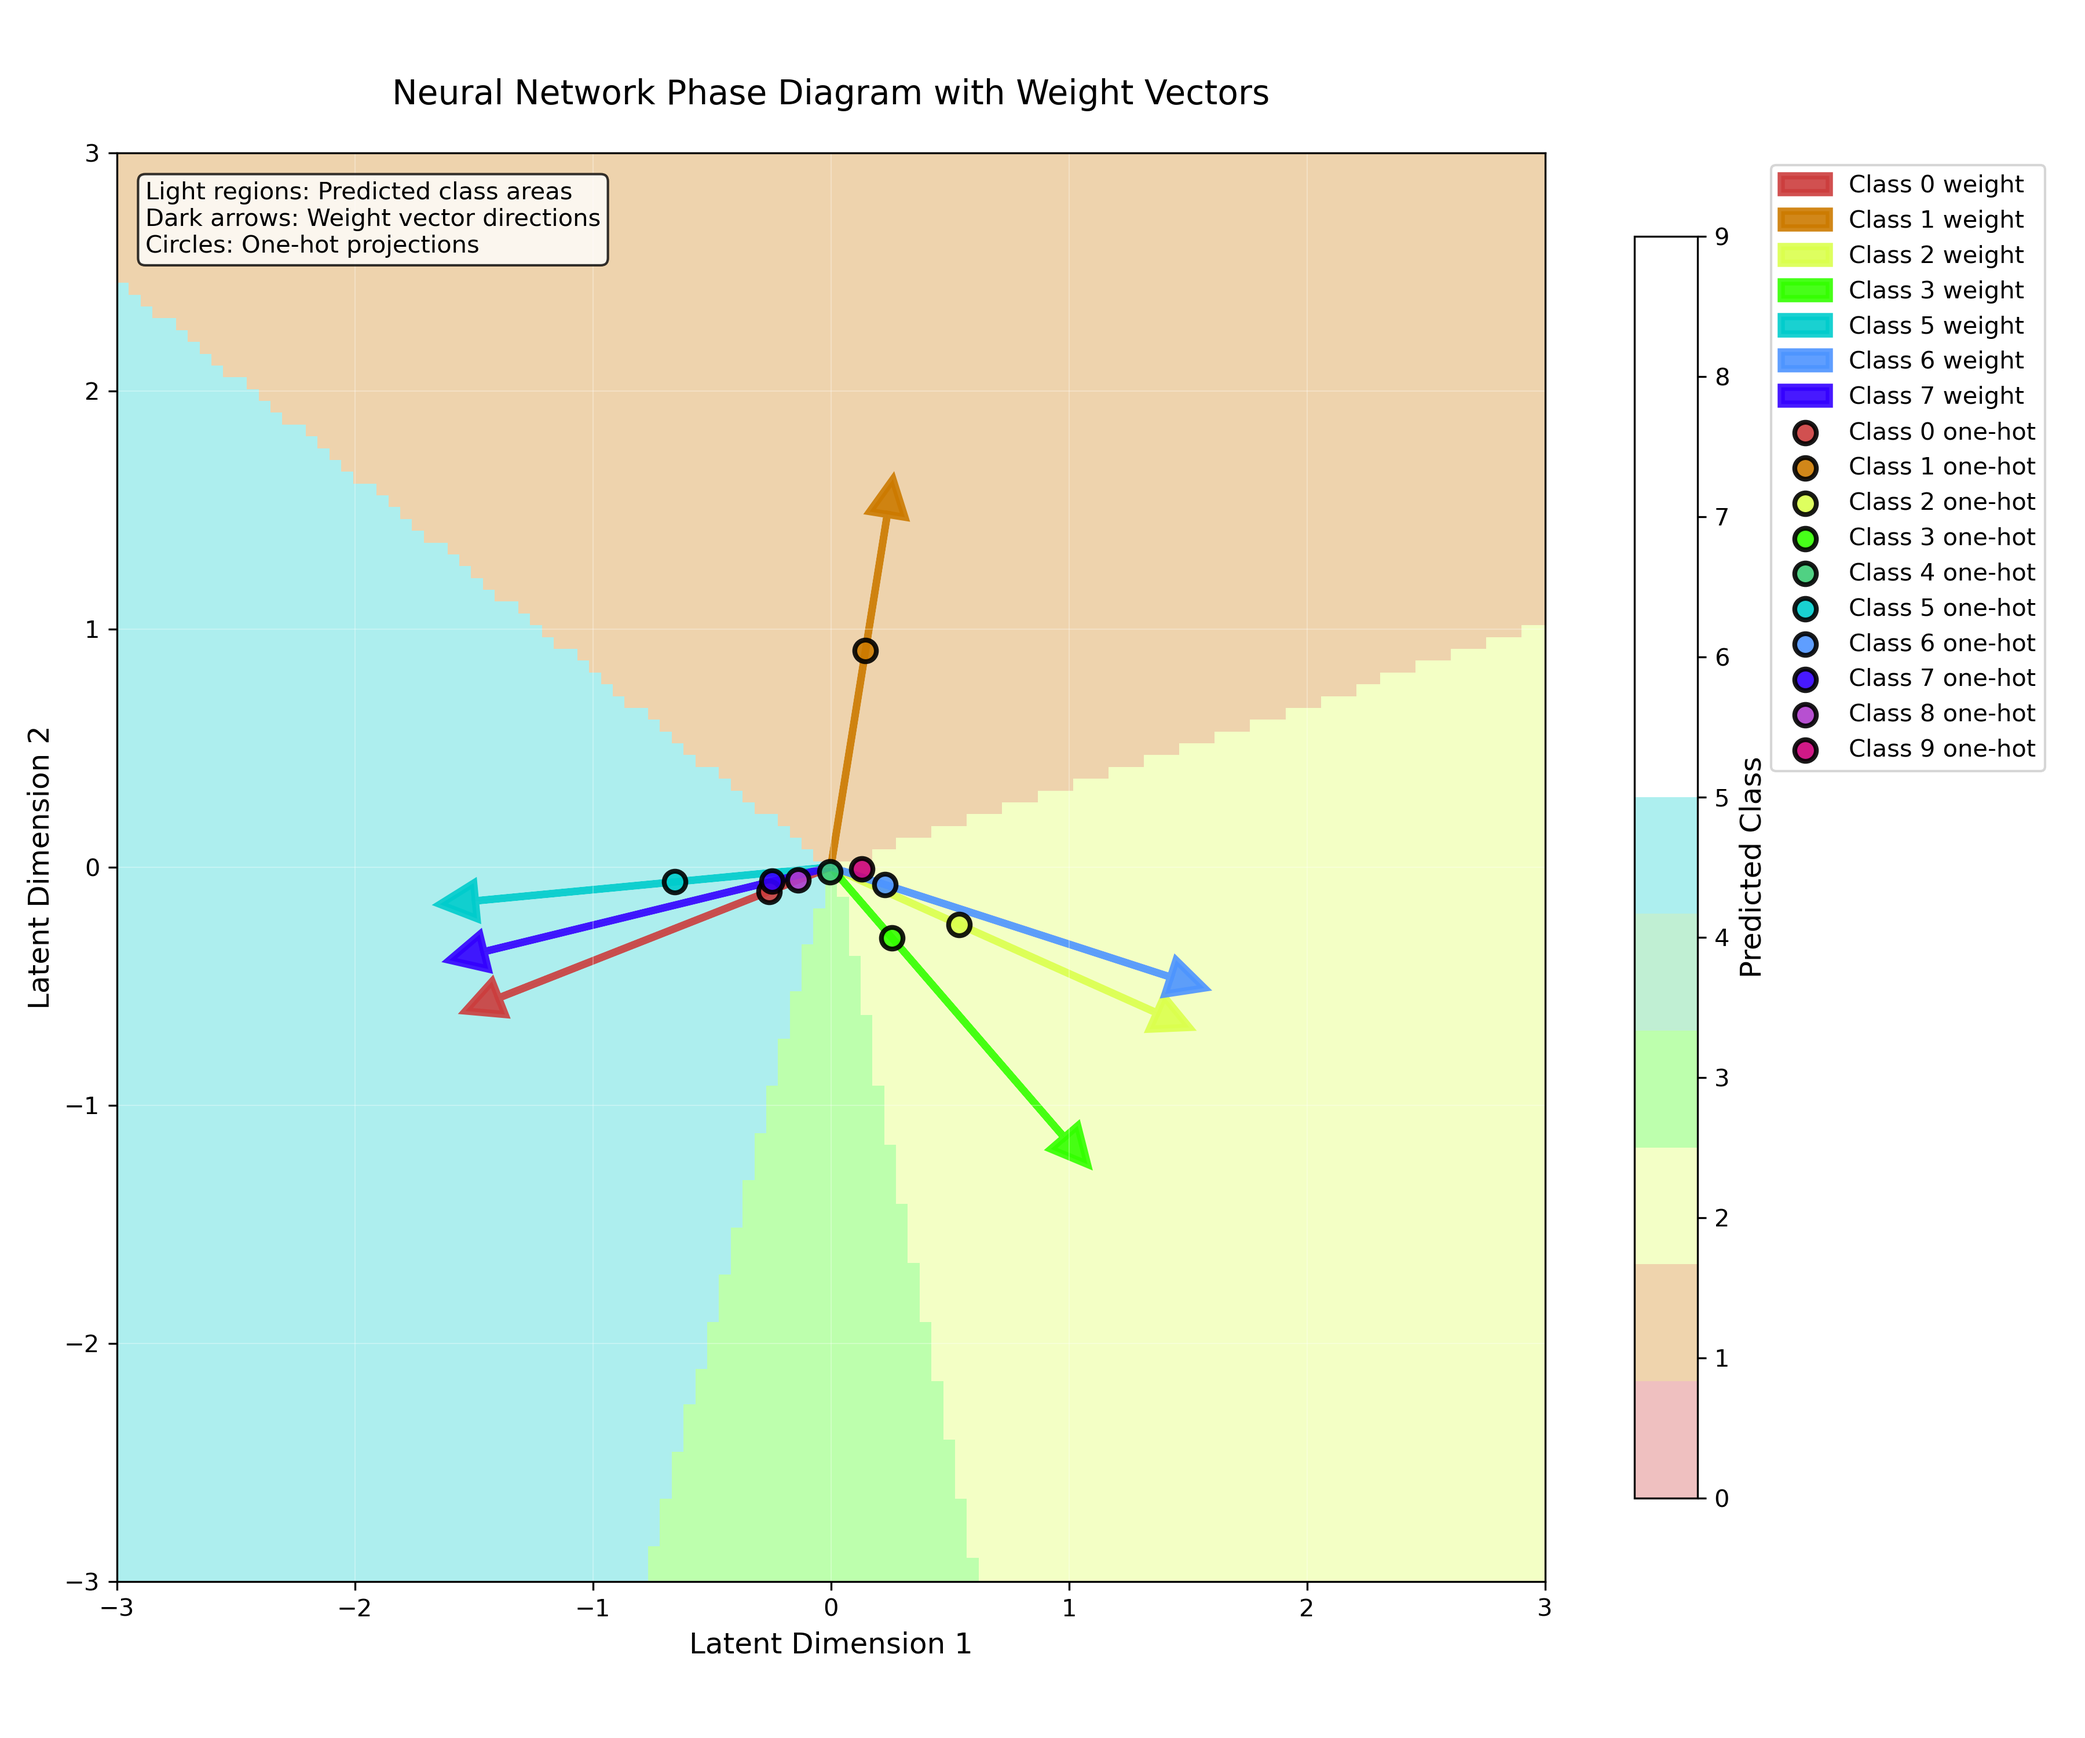
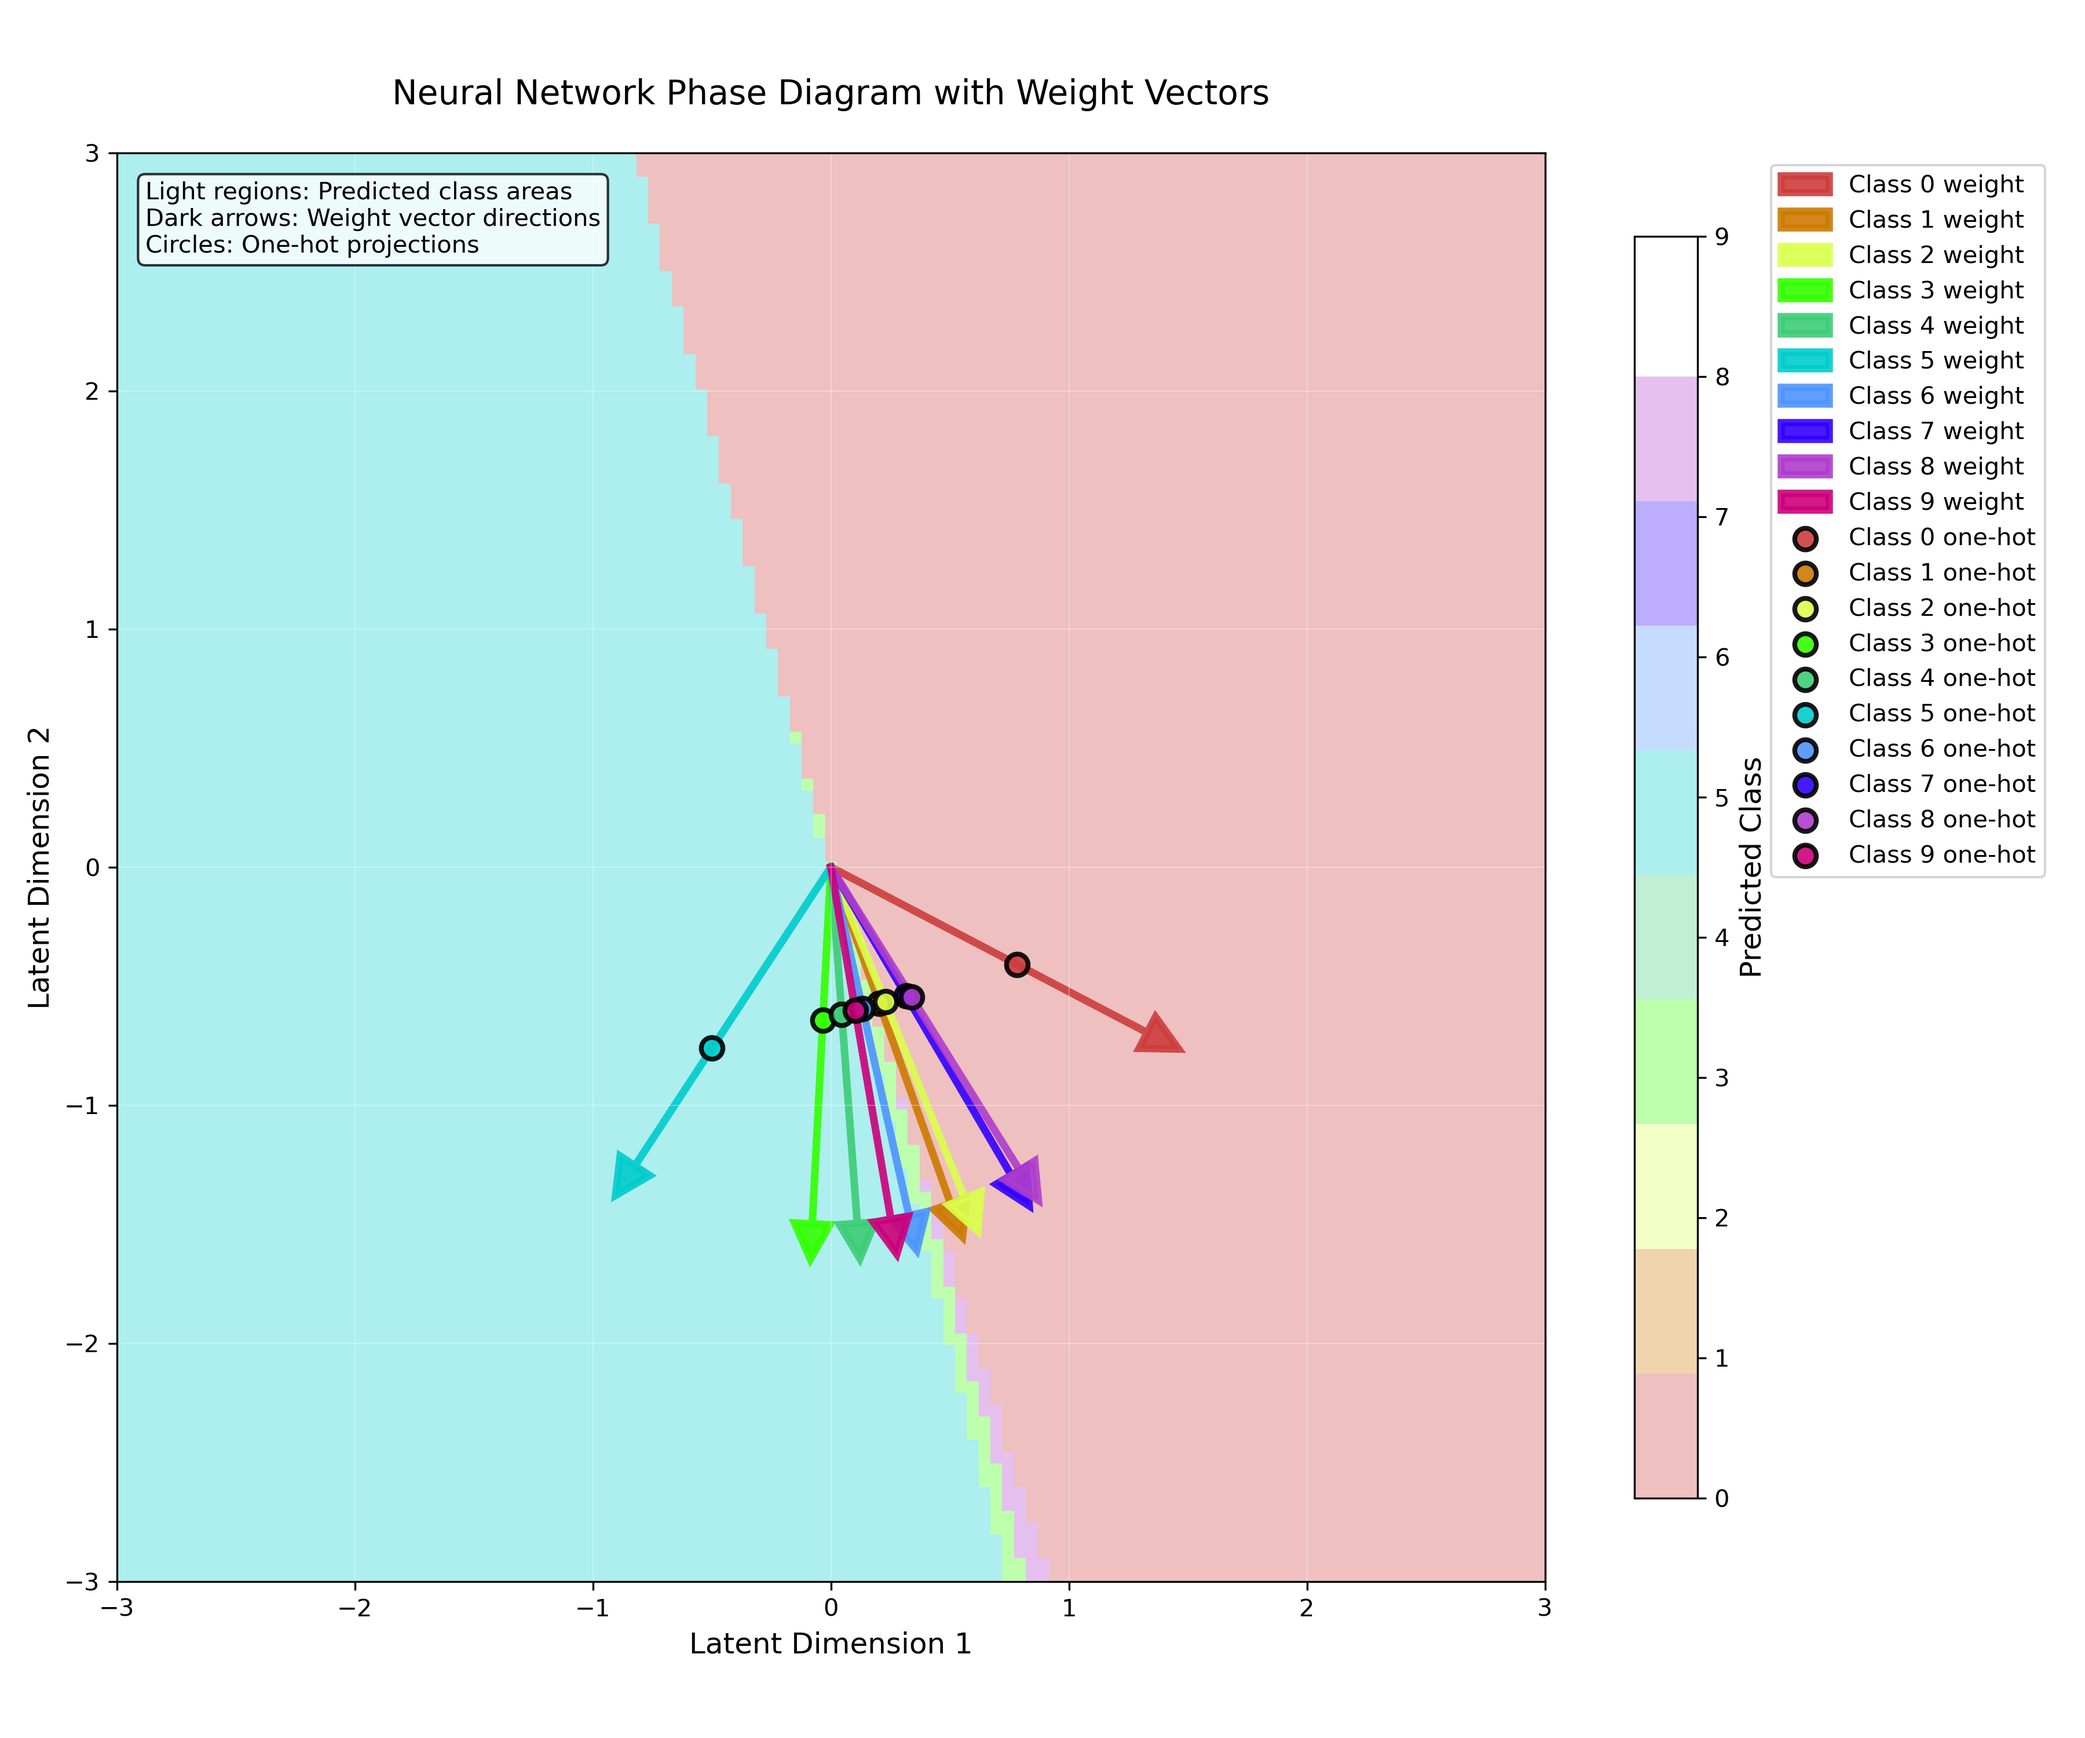
really interesting mnist results

diff --git a/inspect_data.py b/inspect_data.py
@@ -128,7 +128,7 @@ def inspect_model_outputs(model, data_loader, temperature=10.0, num_samples=100)
 
 def main():
     # Load the trained model
-    temperature = 10.0
+    temperature = 20.0
     
     print("Loading trained model...")
     model = SimpleMLP(input_size=784, hidden_size=128, num_classes=10).to(device)

diff --git a/plots.py b/plots.py
@@ -2,7 +2,7 @@ import torch
 import numpy as np
 import matplotlib.pyplot as plt
 
-NUM_CLASSES = 100
+NUM_CLASSES = 10
 
 def create_enhanced_phase_diagram(weights, unembedding_w, bias, device):
     """
